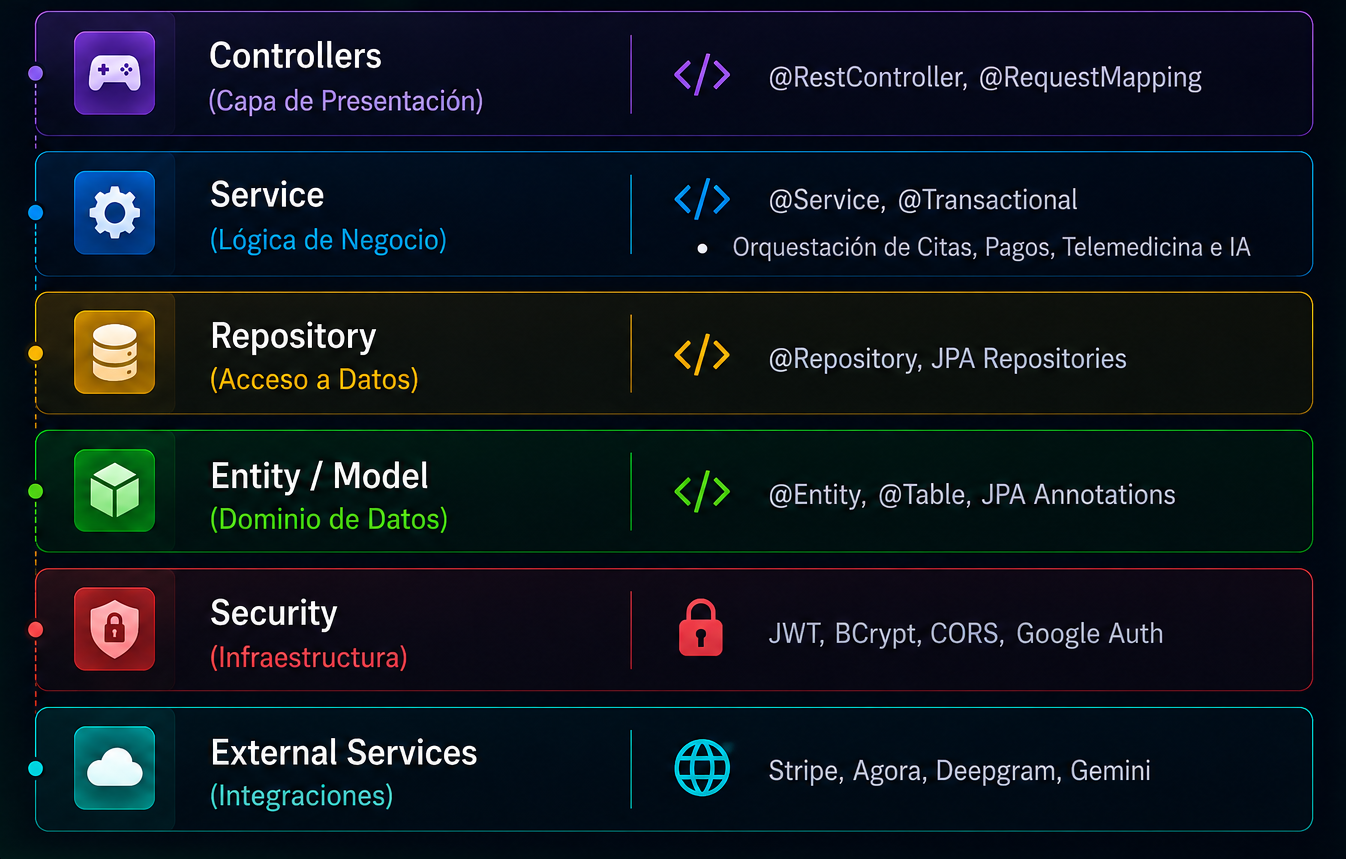
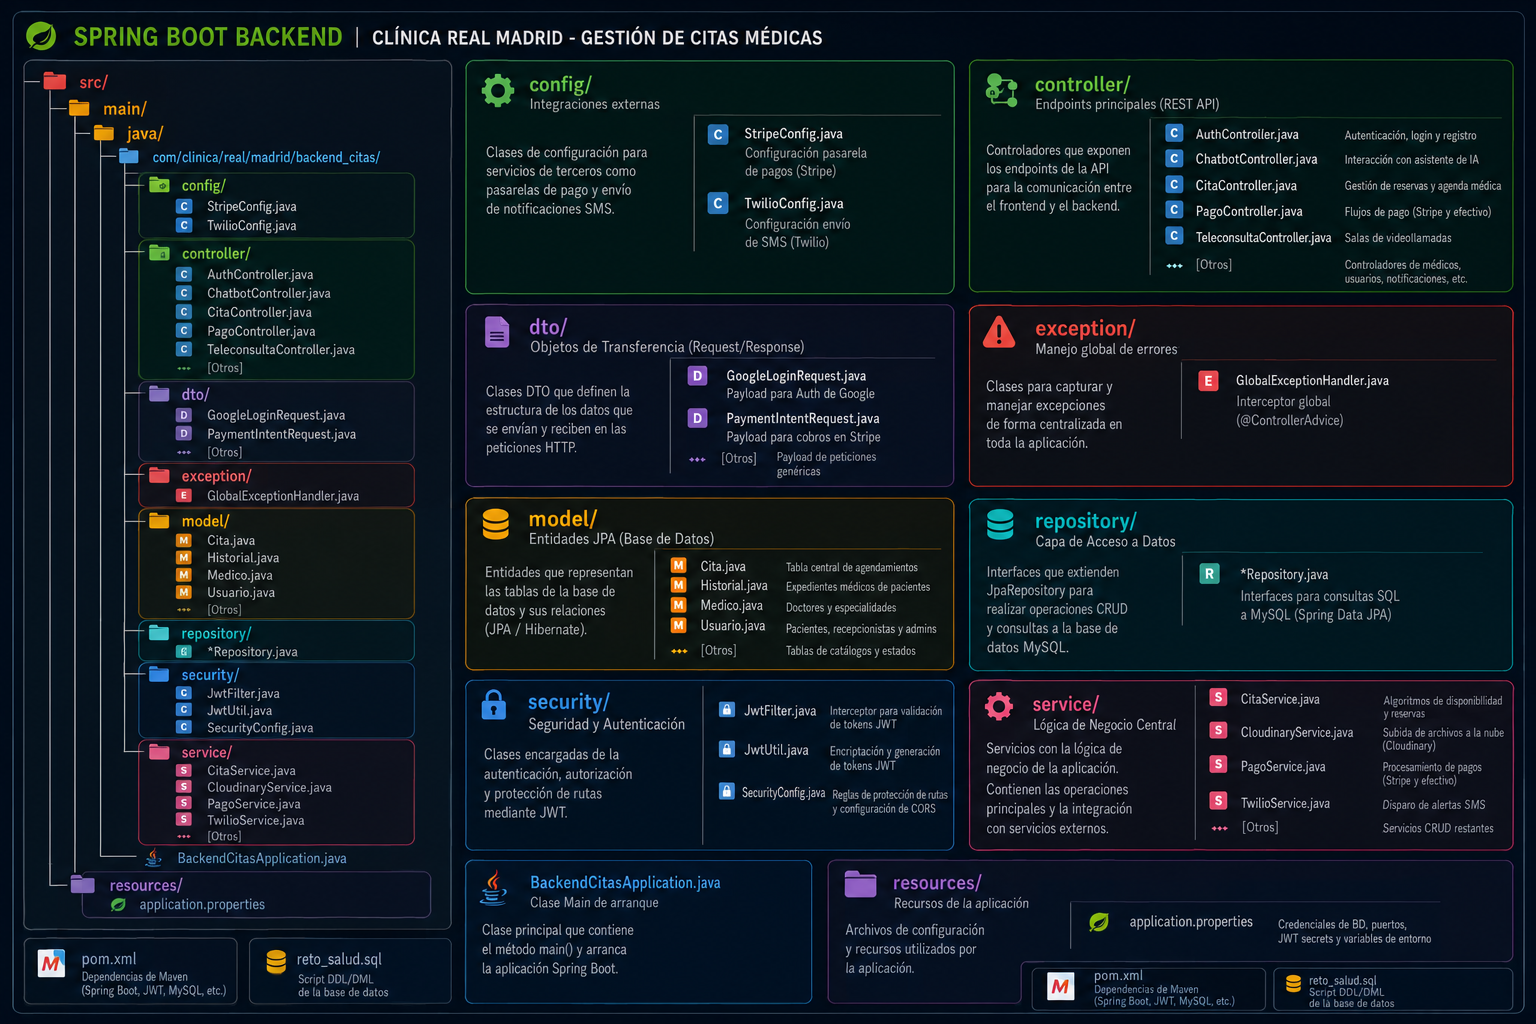
docs: actualizar imágenes de arquitectura y estructura de capas del backend

Changed region(s): [[0.0, 0.0, 0.9985, 0.9988]]

diff --git a/Backend/README.md b/Backend/README.md
@@ -13,7 +13,7 @@ Backend desarrollado con **Spring Boot 3** implementando arquitectura REST, aute
 ## Arquitectura del Backend
 
 <div align="center">
-  <img src="../assets/estructura_backend.png" alt="Arquitectura del Backend" width="800"/>
+  <img src="../assets/arquitectura_backend.png" alt="Arquitectura del Backend" width="800"/>
 </div>
 
 ## Stack Tecnológico
@@ -33,6 +33,10 @@ Backend desarrollado con **Spring Boot 3** implementando arquitectura REST, aute
 | **Asistente IA**| Gemini API | Chatbot inteligente de salud | - |
 
 ## Estructura de Capas
+
+<div align="center">
+  <img src="../assets/estructura_backend.png" alt="Estructura de Capas" width="800"/>
+</div>
 
 ### Capa de Controladores (`controller/`)
 - **Endpoints REST** - Exponen la API al frontend Angular.